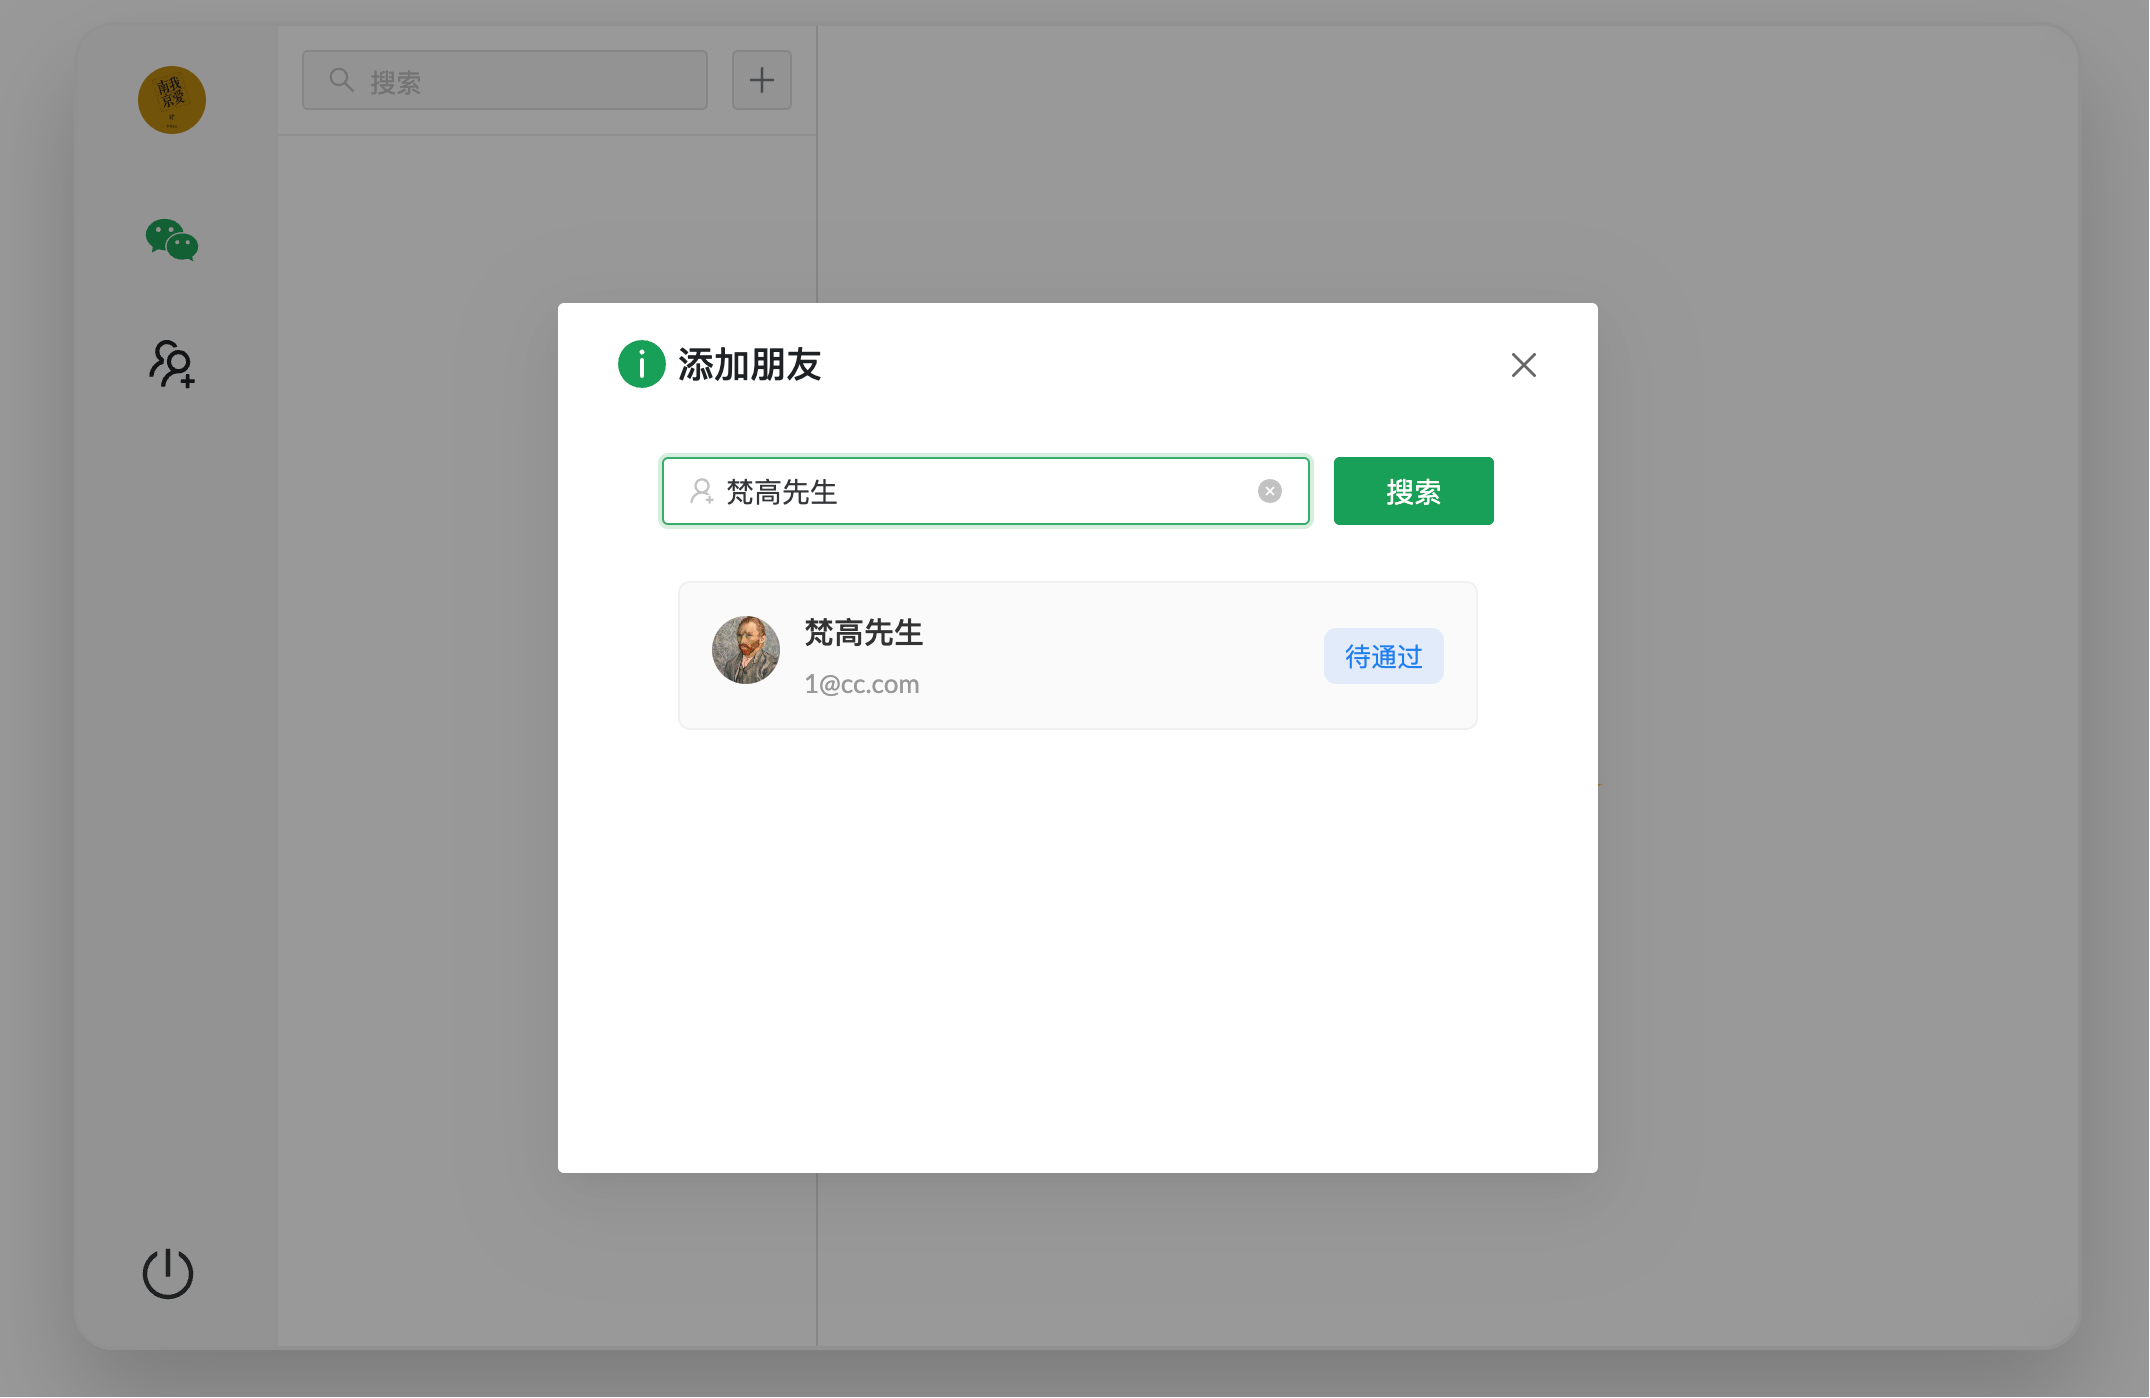
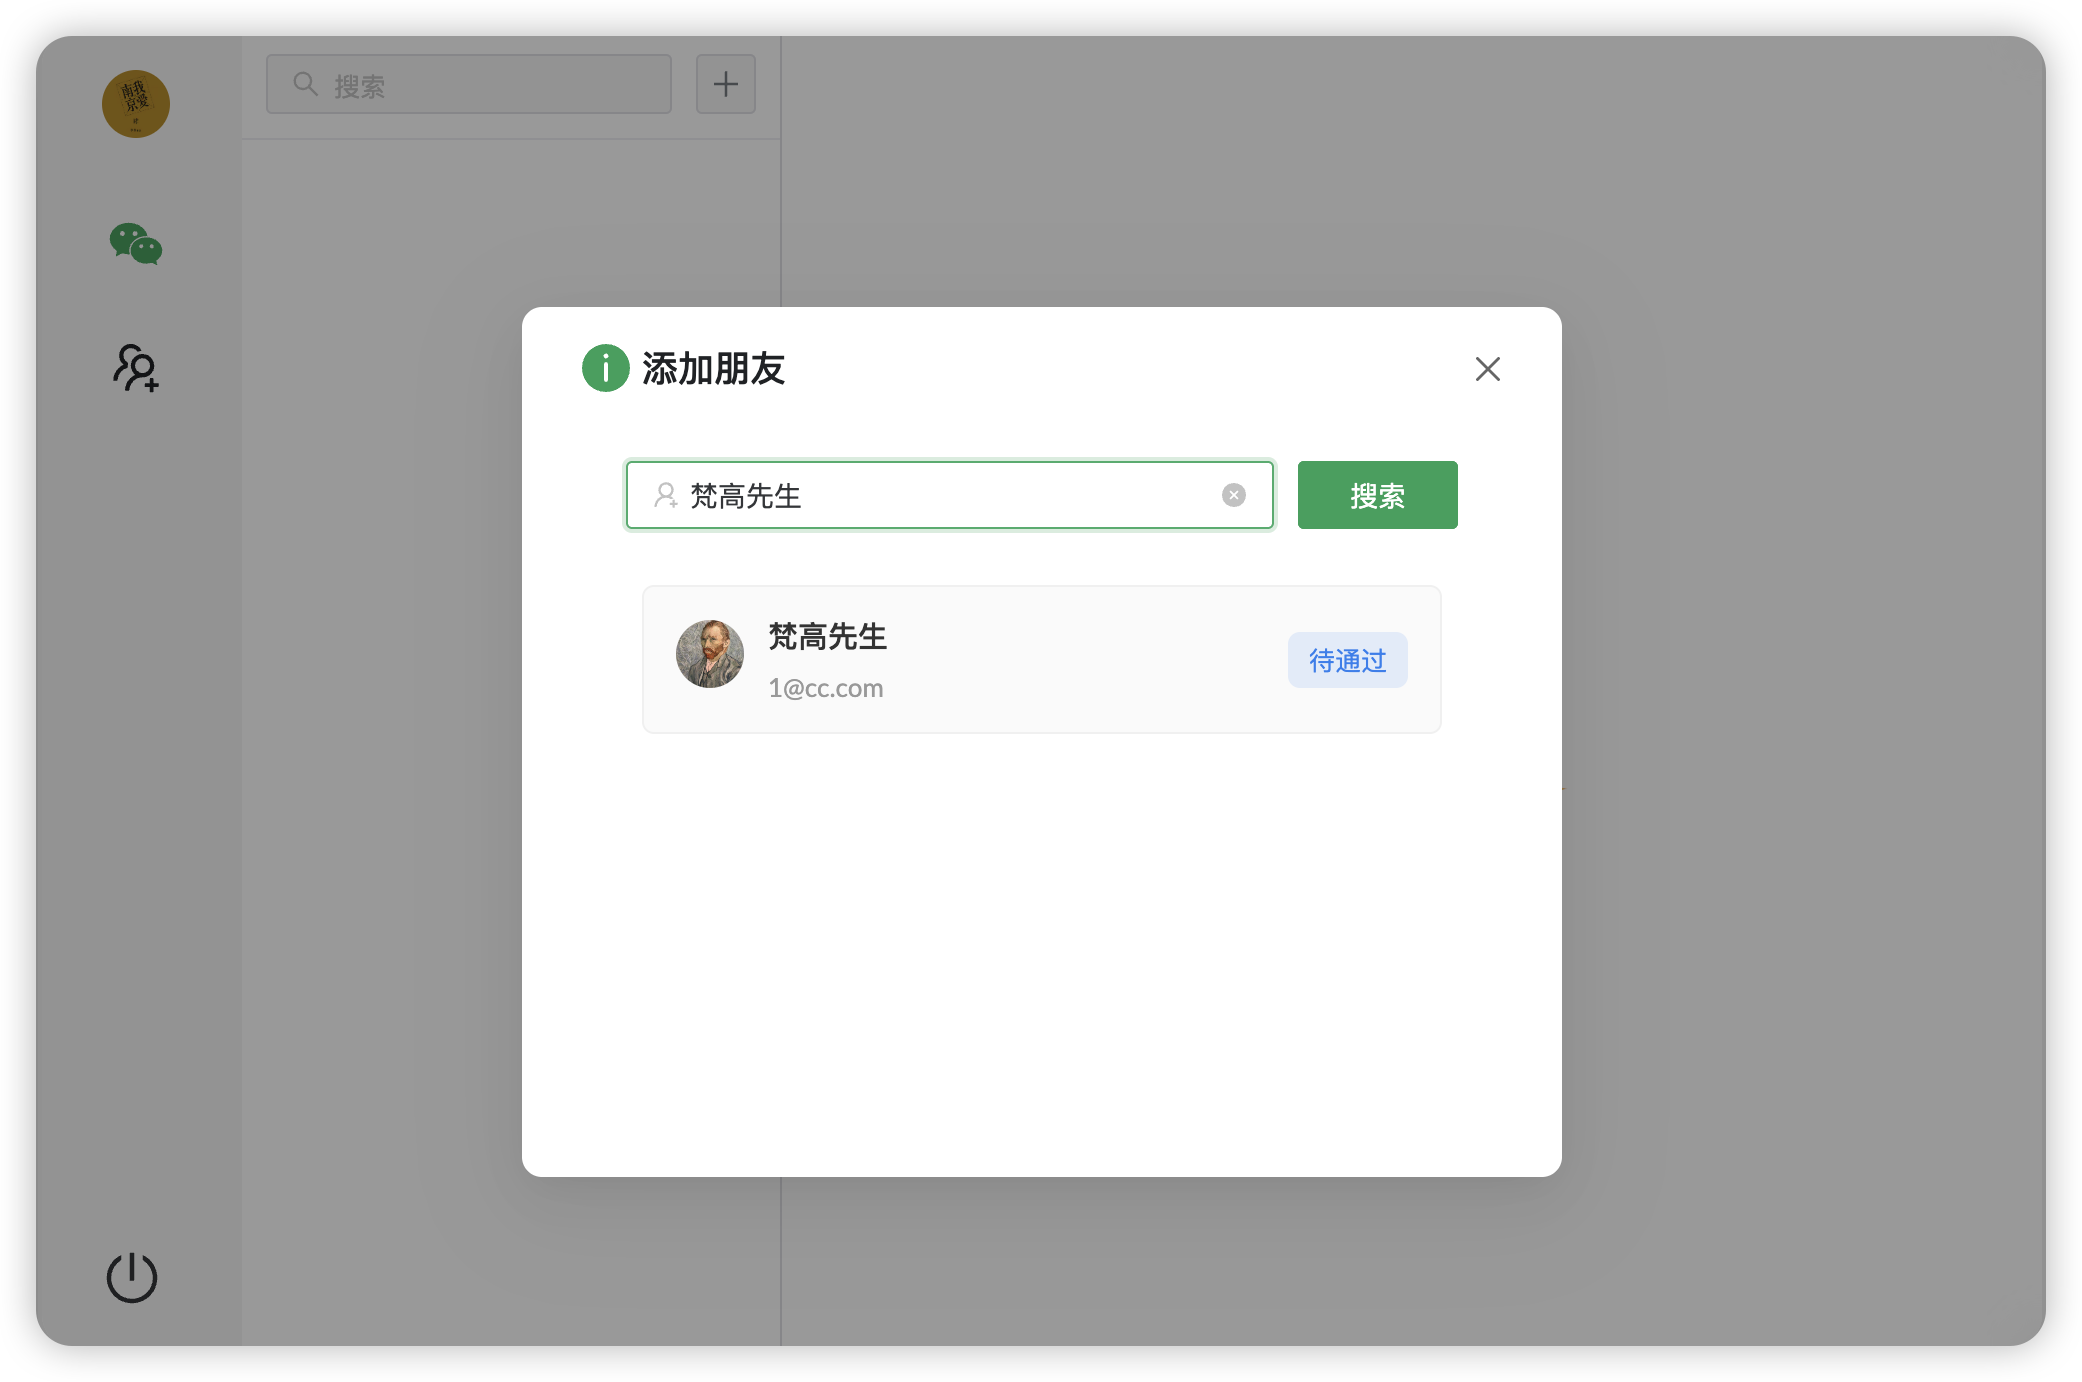
chore：Modufy readme

diff --git a/src/views/HomeView.vue b/src/views/HomeView.vue
@@ -5,3 +5,9 @@
 <script setup lang="ts">
 import HomeContainer from "@/components/HomeContainer.vue";
 </script>
+
+<style>
+.n-modal {
+  border-radius: 10px;
+}
+</style>

diff --git a/README.md b/README.md
@@ -2,14 +2,14 @@
 
 #### Page：
 1. ###### Login page
-   ![login](./public/assets/login.jpg)
+   ![login](./public/assets/login.png)
 
 2. ###### Chat page
    ![chat](./public/assets/chat.jpg)
 
 3. ###### Group/Friend page
-   ![group](./public/assets/group.jpg)
-   ![friend](./public/assets/friend.jpg)
+   ![group](./public/assets/group.png)
+   ![friend](./public/assets/friend.png)
 
 4. ###### Add friend page
    ![add-friend](./public/assets/add-friend.png)
